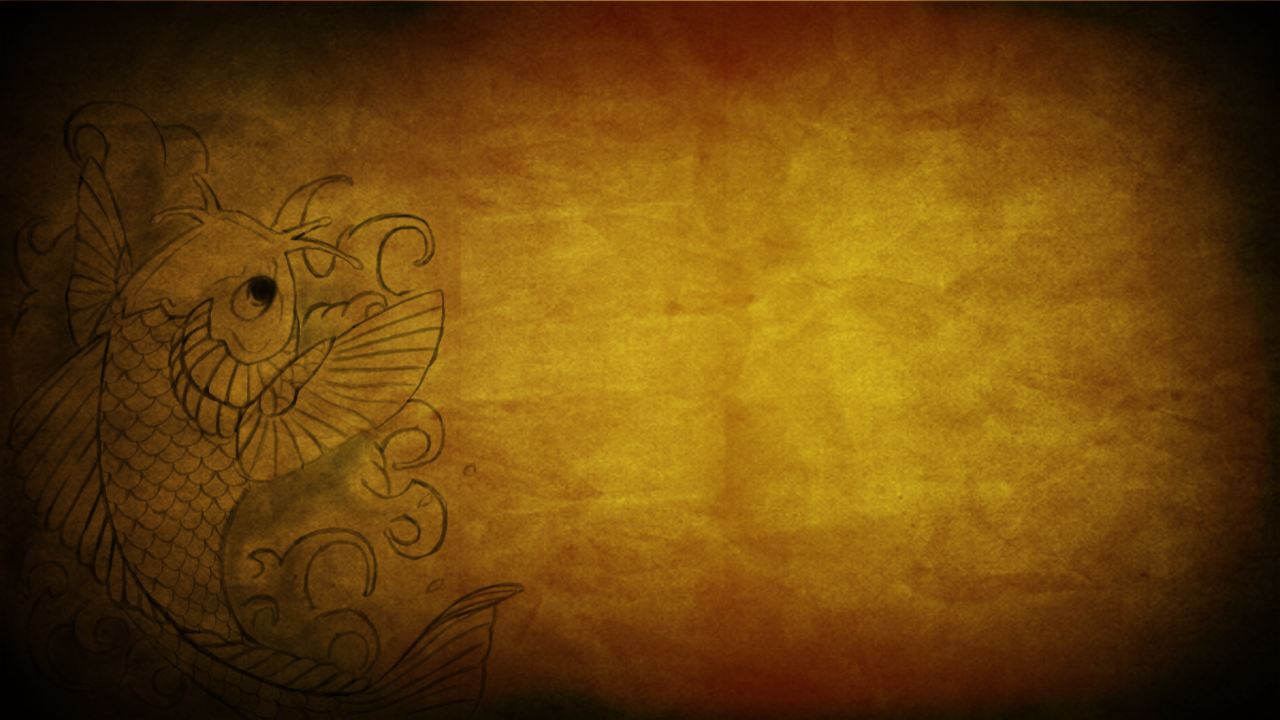
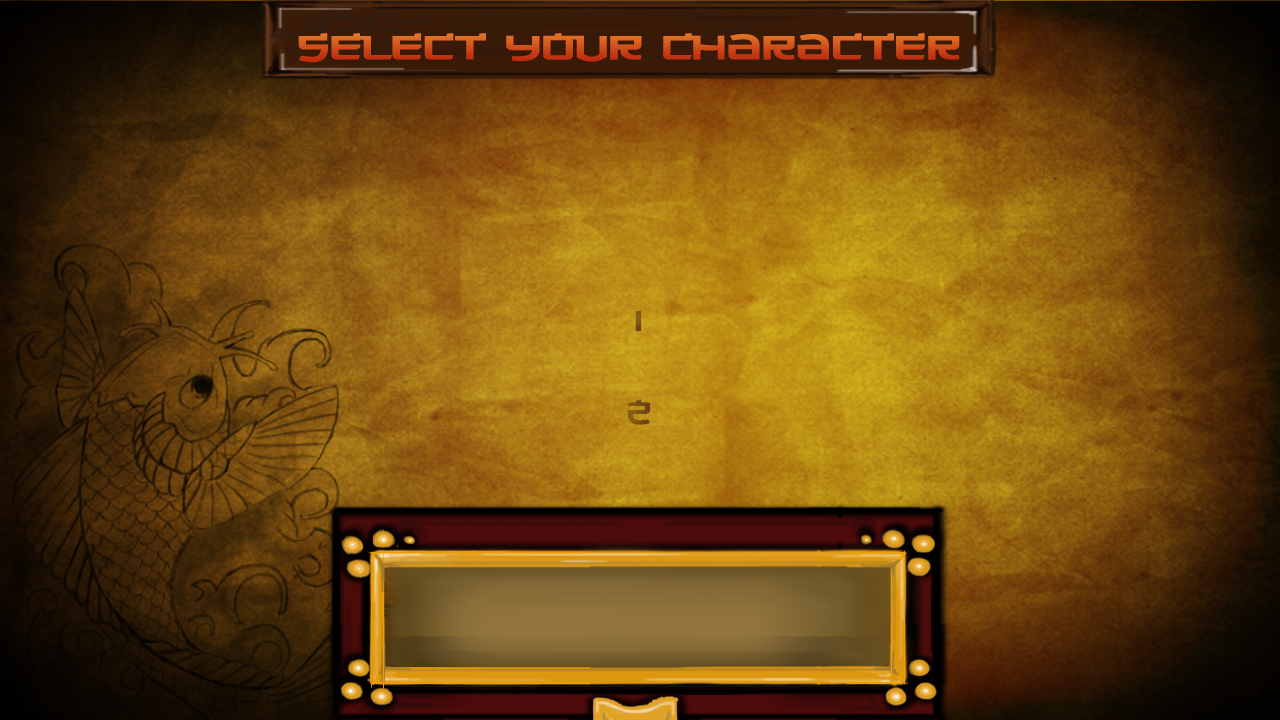
Updated The Behaviour Of The Player Selection Menu 1. Corrected Some Variables in The Enumerator Of The Player Selection Menu 2. Added A Abstract Structure For Handle Arrow Image In Different Menus 3. Updated The Background Of The Selection Player Menu

diff --git a/ModelingProject1/SourceCode/Game States/Menus/SPlayerSelection.cpp b/ModelingProject1/SourceCode/Game States/Menus/SPlayerSelection.cpp
@@ -5,11 +5,21 @@ void Image::ControllerSelection::updatePositionController()
 {
   if ( selectedPlayer == MenuData::NO_SELECTED_PLAYER )
   {
-    controller->setPosition(590.0f, 430.0f);
+    controller->setPosition(590.0f, 330.0f);
     return;
   }
 
   controller->setPosition(362.5f + (selectedPlayer-1)*420.0f, 430.0f);
+}
+
+void Image::ArrowSelectMenu::updatePositionArrow()
+{
+  if ( optionSelected == MenuData::NOTHING_SELECTED )
+  {
+    return;
+  } 
+
+  arrow->setPosition(300.0f + (optionSelected - 1)*280.0f, 580.0f );
 }
 
 SPlayerSelection::SPlayerSelection(GameRender* gR, GameCore* gC, GameInput* gI, GameStates stateName) 
@@ -34,19 +44,13 @@ void SPlayerSelection::init()
 
   createGUI();
 
-  controllerImageP1.controller = new Image::GameImage(Vector2f(590.0f, 430.0f), Vector2f(100.0f, 67.0f), 
-                                    Vector2f(0.0f, 0.0f), "Resources/Menus/Menu Selection Player/Gamepad.png");
-  controllerImageP1.selectedPlayer = MenuData::NO_SELECTED_PLAYER;
-
-  customCursor.cursor = new Image::GameImage(Vector2f(0.0f, 0.0f), Vector2f(64.0f, 64.0f), 
-                                             Vector2f(0.0f, 0.0f), "Resources/GUI/Cursor.png");  
-
   gameCore->getGameTimer()->setFramesPerSecond(30);
 }
 
 void SPlayerSelection::handleEvents()
 {
   SDL_Event e;
+  bool running = gameCore->getIsRunning();
 
   while ( SDL_PollEvent(&e) )
   {
@@ -57,6 +61,7 @@ void SPlayerSelection::handleEvents()
       case SDL_MOUSEMOTION:
       {
 		customCursor.cursor->setPosition(mousePosition.x, mousePosition.y);
+		arrowImage.optionSelected = guiSelectPlayer->checkMousePosition(mousePosition);
         break;
       }
       case SDL_MOUSEBUTTONDOWN:
@@ -65,6 +70,8 @@ void SPlayerSelection::handleEvents()
       }
       case SDL_MOUSEBUTTONUP:
       {
+		handleMouseUp(e.button.button, mousePosition);
+		checkCorrectSelectionPlayer(&running);
         break;
       }
       case SDL_KEYDOWN:
@@ -84,6 +91,7 @@ void SPlayerSelection::handleEvents()
 void SPlayerSelection::logic()
 {
   controllerImageP1.updatePositionController();
+  arrowImage.updatePositionArrow();
 }
 
 void SPlayerSelection::render()
@@ -111,6 +119,13 @@ void SPlayerSelection::render()
   gameRender->drawFullTexture(controllerImageP1.controller->getTexture(), controllerImageP1.controller->getPosition(),
                               controllerImageP1.controller->getOffset().x, controllerImageP1.controller->getOffset().y );
 
+  if ( arrowImage.optionSelected != MenuData::NOTHING_SELECTED )
+  {
+    gameRender->drawFullTexture(arrowImage.arrow->getTexture(), arrowImage.arrow->getPosition(),
+                                arrowImage.arrow->getOffset().x, arrowImage.arrow->getOffset().y);
+  } 
+      
+
   gameRender->drawFullTexture(customCursor.cursor->getTexture(), customCursor.cursor->getPosition(),
                               customCursor.cursor->getOffset().x, customCursor.cursor->getOffset().y);
 
@@ -129,6 +144,17 @@ void SPlayerSelection::createGUI( )
 {
   RPRGUI::GUIManager* guiManager = gameRender->getGUIManager();
   std::string commonPath = "Resources/Menus/Menu Selection Player/";
+
+  controllerImageP1.controller = new Image::GameImage(Vector2f(590.0f, 330.0f), Vector2f(100.0f, 67.0f), 
+                                    Vector2f(0.0f, 0.0f), commonPath + "Gamepad.png");
+  controllerImageP1.selectedPlayer = MenuData::NO_SELECTED_PLAYER;
+
+  arrowImage.arrow = new Image::GameImage(Vector2f(0.0f, 0.0f), Vector2f(412.0f, 64.0f), 
+                                    Vector2f(0.0f, 0.0f),"Resources/Menus/Main Menu/MainMenuHighlighter.png");
+  arrowImage.optionSelected = MenuData::NOTHING_SELECTED;
+
+  customCursor.cursor = new Image::GameImage(Vector2f(0.0f, 0.0f), Vector2f(64.0f, 64.0f), 
+                                             Vector2f(0.0f, 0.0f), "Resources/GUI/Cursor.png");  
   
   guiSelectPlayer->addStaticImage( guiManager->createStaticImage(Vector2f(0.0f, 0.0f),
 	                                                         Vector2f(1280.0f, 720.0f),
@@ -148,14 +174,14 @@ void SPlayerSelection::createGUI( )
 															 "") );
   guiSelectPlayer->addTextureStaticImages(gameRender->loadTexture(commonPath + "SuricataSelector.png"));
 
-  /*guiSelectPlayer->addButton( guiManager->createButton(MenuData::BEGIN, Vector2f(500.0f, 550.0f), 
-	                                               Vector2f(230.0f, 28.75f), Vector2f(0.0f, 0.0f),
+  guiSelectPlayer->addButton( guiManager->createButton(MenuData::BEGIN, Vector2f(380.0f, 600.0f), 
+	                                               Vector2f(256.0f, 32.0f), Vector2f(0.0f, 0.0f),
 	                                               STATE_LEVELONEJAPAN) );
-  guiSelectPlayer->addButton( guiManager->createButton(MenuData::BACK, Vector2f(700.0f, 550.0f), 
-	                                               Vector2f(230.0f, 28.75f), Vector2f(0.0f, 28.75f),
-	                                               STATE_MAINMENU) );*/
+  guiSelectPlayer->addButton( guiManager->createButton(MenuData::BACK, Vector2f(650.0f, 600.0f), 
+	                                               Vector2f(256.0f, 32.0f), Vector2f(0.0f, 32.0f),
+	                                               STATE_MAINMENU) );
 
-  //guiSelectPlayer->addTextureButtons( gameRender->loadTexture(commonPath + "MenuSelectionPlayerButtons.png") );                                               
+  guiSelectPlayer->addTextureButtons( gameRender->loadTexture(commonPath + "MenuSelectionPlayerButtons.png") );                                               
 
 }
 
@@ -192,6 +218,7 @@ void SPlayerSelection::handleMouseUp(Uint8 button, Vector2f mousePosition)
   {
     case SDL_BUTTON_LEFT:
     {
+	  arrowImage.optionSelected = guiSelectPlayer->checkMousePosition(mousePosition);
       break;
     }
     case SDL_BUTTON_MIDDLE:
@@ -207,29 +234,18 @@ void SPlayerSelection::handleMouseUp(Uint8 button, Vector2f mousePosition)
 
 void SPlayerSelection::handleKeyDown(SDLKey key)
 {
-  if ( key == SDLK_LEFT )
-  {
-    if ( controllerImageP1.selectedPlayer == MenuData::NO_SELECTED_PLAYER )
-    {
-      controllerImageP1.selectedPlayer = MenuData::PLAYER_ONE;
-    }
+  checkControlsButtonsSelected(key);
 
-    if ( controllerImageP1.selectedPlayer == MenuData::PLAYER_TWO )
-    {
-      controllerImageP1.selectedPlayer = MenuData::NO_SELECTED_PLAYER;
-    }
+  if ( key == SDLK_UP )
+  {
+    arrowImage.optionSelected = MenuData::NOTHING_SELECTED;
   }
 
-  if ( key == SDLK_RIGHT )
+  if ( key == SDLK_DOWN )
   {
-    if ( controllerImageP1.selectedPlayer == MenuData::NO_SELECTED_PLAYER )
+    if ( arrowImage.optionSelected == MenuData::NOTHING_SELECTED )
     {
-	  controllerImageP1.selectedPlayer = MenuData::PLAYER_TWO;
-    }
-
-    if ( controllerImageP1.selectedPlayer == MenuData::PLAYER_ONE )
-    {
-      controllerImageP1.selectedPlayer = MenuData::NO_SELECTED_PLAYER;
+      arrowImage.optionSelected = MenuData::BEGIN;
     }
   }
 
@@ -241,9 +257,97 @@ void SPlayerSelection::handleKeyDown(SDLKey key)
 
 void SPlayerSelection::handleEnterPressed()
 {
+  bool running = true;
+
+  if ( arrowImage.optionSelected != MenuData::NOTHING_SELECTED )
+  {
+    if ( arrowImage.optionSelected == MenuData::BEGIN && controllerImageP1.selectedPlayer != MenuData::NOTHING_SELECTED )
+    {
+      gameCore->pushBackPlayerToInitialize(controllerImageP1.selectedPlayer - 1);
+	  setHasEnded( guiSelectPlayer->getListButtons().at( arrowImage.optionSelected - 1 ).eventClicked(&running) );
+    }
+
+    if ( arrowImage.optionSelected == MenuData::BACK)
+    {
+      setHasEnded( guiSelectPlayer->getListButtons().at( arrowImage.optionSelected - 1 ).eventClicked(&running) );
+    }
+  }
+
+  if ( arrowImage.optionSelected == MenuData::NOTHING_SELECTED )
+  {
+    arrowImage.optionSelected = MenuData::BEGIN;
+  }
+}
+
+void SPlayerSelection::checkCorrectSelectionPlayer(bool* running)
+{
   if ( controllerImageP1.selectedPlayer != MenuData::NO_SELECTED_PLAYER )
   {
-    gameCore->pushBackPlayerToInitialize(controllerImageP1.selectedPlayer - 1);
-	setHasEnded(STATE_LEVELONEJAPAN);
+    if ( arrowImage.optionSelected != MenuData::NOTHING_SELECTED )
+    {
+      setHasEnded( guiSelectPlayer->getListButtons().at( arrowImage.optionSelected - 1 ).eventClicked(running) );
+      gameCore->setIsRunning(running);  
+    }
+  }
+}
+
+void SPlayerSelection::checkControlsButtonsSelected(SDLKey key)
+{
+  if ( key == SDLK_RIGHT )
+  {
+    switch(arrowImage.optionSelected)
+	{
+	  case MenuData::BEGIN:
+      {
+        arrowImage.optionSelected = MenuData::BACK;
+        return;
+      }
+	}
+
+    if ( arrowImage.optionSelected == MenuData::NOTHING_SELECTED )
+    {
+      switch(controllerImageP1.selectedPlayer)
+      {
+	    case MenuData::NO_SELECTED_PLAYER:
+        {
+          controllerImageP1.selectedPlayer = MenuData::PLAYER_TWO;
+          break;
+		}
+	    case MenuData::PLAYER_ONE:
+		{
+          controllerImageP1.selectedPlayer = MenuData::NO_SELECTED_PLAYER;
+          break;
+		}
+	  }
+    }
+  }
+
+  if ( key == SDLK_LEFT )
+  {
+    switch(arrowImage.optionSelected)
+	{
+	  case MenuData::BACK:
+      {
+	    arrowImage.optionSelected = MenuData::BEGIN;
+        return;
+      }
+	}
+
+    if ( arrowImage.optionSelected == MenuData::NOTHING_SELECTED )
+    {
+      switch(controllerImageP1.selectedPlayer)
+      {
+		case MenuData::NO_SELECTED_PLAYER:
+        {
+          controllerImageP1.selectedPlayer = MenuData::PLAYER_ONE;
+	      break;
+        }
+		case MenuData::PLAYER_TWO:
+        {
+          controllerImageP1.selectedPlayer = MenuData::NO_SELECTED_PLAYER;
+	      break;
+        }
+      }
+    }
   }
 }

diff --git a/ModelingProject1/SourceCode/Game States/Menus/SMainMenu.cpp b/ModelingProject1/SourceCode/Game States/Menus/SMainMenu.cpp
@@ -33,12 +33,7 @@ void SMainMenu::init()
 
   createGUI();
 
-  arrowImage.arrow = new Image::GameImage(Vector2f(0.0f, 0.0f), Vector2f(412.0f, 64.0f), 
-                                    Vector2f(0.0f, 0.0f), commonPath + "MainMenuHighlighter.png");
-  arrowImage.optionSelected = MenuData::NOTHING_SELECTED;
-
-  customCursor.cursor = new Image::GameImage(Vector2f(0.0f, 0.0f), Vector2f(64.0f, 64.0f), 
-                                             Vector2f(0.0f, 0.0f), "Resources/GUI/Cursor.png");  
+  gameCore->clearPlayerToInitialize();
 
   gameCore->getGameTimer()->setFramesPerSecond(30);
 }
@@ -141,6 +136,13 @@ void SMainMenu::createGUI()
 {
   RPRGUI::GUIManager* guiManager = gameRender->getGUIManager();
   std::string commonPath = "Resources/Menus/Main Menu/";
+
+  arrowImage.arrow = new Image::GameImage(Vector2f(0.0f, 0.0f), Vector2f(412.0f, 64.0f), 
+                                    Vector2f(0.0f, 0.0f), commonPath + "MainMenuHighlighter.png");
+  arrowImage.optionSelected = MenuData::NOTHING_SELECTED;
+
+  customCursor.cursor = new Image::GameImage(Vector2f(0.0f, 0.0f), Vector2f(64.0f, 64.0f), 
+                                             Vector2f(0.0f, 0.0f), "Resources/GUI/Cursor.png");  
 
   guiMainMenu->addStaticImage( guiManager->createStaticImage(Vector2f(0.0f, 0.0f),
 	                                                         Vector2f(1280.0f, 720.0f),

diff --git a/ModelingProject1/SourceCode/main.cpp b/ModelingProject1/SourceCode/main.cpp
@@ -24,8 +24,8 @@ int main( int argc, char* args[] )
     return 1;
   }
 
-  //StateManager->changeState( new SMainMenu( &Render, &Core, &Input, STATE_MAINMENU ) );
-  StateManager->changeState( new SPlayerSelection( &Render, &Core, &Input, STATE_MENUSELECTIONPLAYER ) );
+  StateManager->changeState( new SMainMenu( &Render, &Core, &Input, STATE_MAINMENU ) );
+  //StateManager->changeState( new SPlayerSelection( &Render, &Core, &Input, STATE_MENUSELECTIONPLAYER ) );
   //StateManager->changeState( new SLevelOneJapan( &Render, &Core, &Input, STATE_LEVELONEJAPAN ) );
   StateManager->init();
 

diff --git a/ModelingProject1/SourceCode/Game States/Menus/SPlayerSelection.h b/ModelingProject1/SourceCode/Game States/Menus/SPlayerSelection.h
@@ -26,10 +26,14 @@ class SPlayerSelection : public GameState
    void handleKeyDown(SDLKey key);
    void handleEnterPressed();
 
+   void checkCorrectSelectionPlayer(bool* running);
+   void checkControlsButtonsSelected(SDLKey key);
+
   private:
    RPRGUI::GUIMenu* guiSelectPlayer;
    Image::ControllerSelection controllerImageP1;
    Image::ControllerSelection controllerImageP2;
+   Image::ArrowSelectMenu arrowImage;
    Image::CustomCursor customCursor;
 };
 

diff --git a/ModelingProject1/SourceCode/Game States/Menus/MenuStructs.h b/ModelingProject1/SourceCode/Game States/Menus/MenuStructs.h
@@ -4,14 +4,27 @@
 
 namespace Image
 {
-  struct ArrowMainMenu
+  struct ArrowMenu
   {
     GameImage* arrow;
     int optionSelected;
 
-    void updatePositionArrow();
+	virtual void updatePositionArrow() = 0;
   };
 
+  struct ArrowMainMenu : ArrowMenu
+  {
+	void updatePositionArrow();
+  };
+
+  struct ArrowSelectMenu : ArrowMenu
+  {
+	void updatePositionArrow();
+  };
+}
+
+namespace Image
+{
   struct ControllerSelection
   {
     GameImage* controller;

diff --git a/ModelingProject1/SourceCode/Game States/Menus/MenuData.h b/ModelingProject1/SourceCode/Game States/Menus/MenuData.h
@@ -20,7 +20,7 @@ namespace MenuData
 
   enum SelectPlayerOptions
   {
-	BEGIN,
+	BEGIN = 1,
 	BACK,
   };
 }
